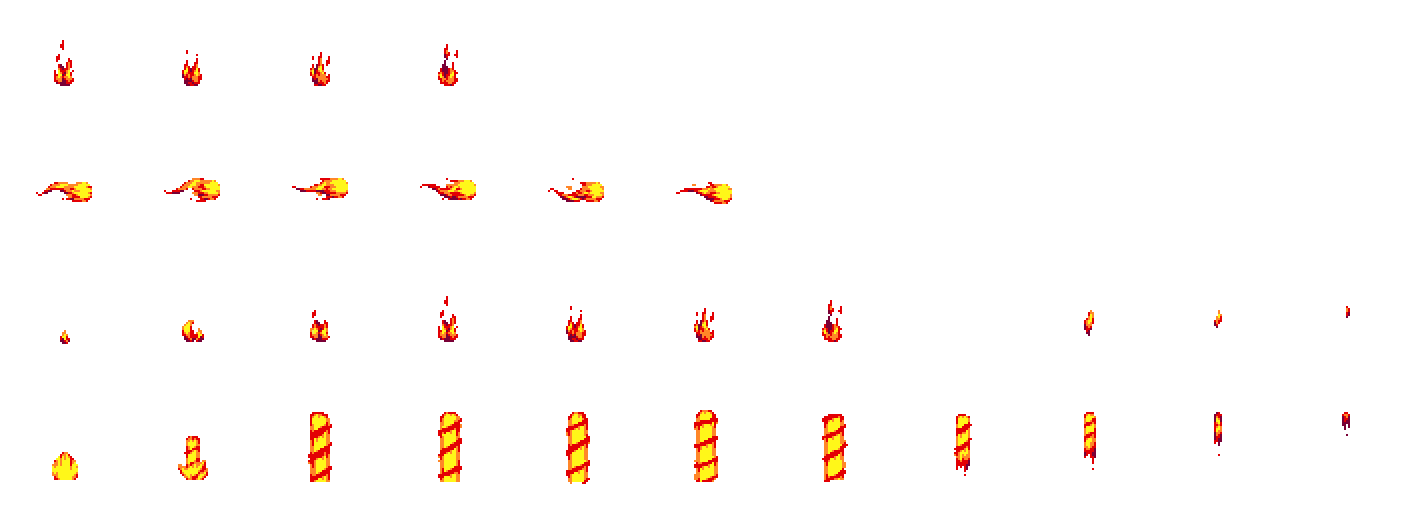
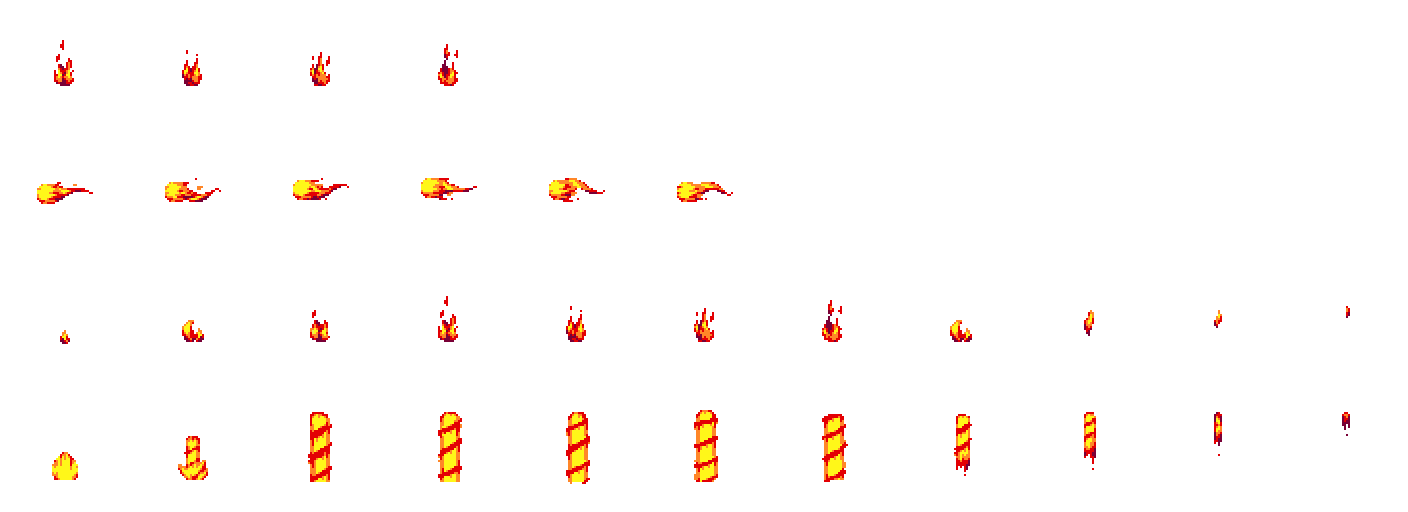
Animation additions

diff --git a/Hero of Novac/Hero_of_Novac/Player.cs b/Hero of Novac/Hero_of_Novac/Player.cs
@@ -251,6 +251,11 @@ namespace Hero_of_Novac
                             sourceRecFX.Y = 128 * 3;
                             break;
                         case "Fire Ball":
+                            combatFX = Content.Load<Texture2D>("FireAttacc");
+                            sourceRecBattle.X = 96 * 3;
+                            sourceRecBattle.Y = 96;
+                            sourceRecFX.X = -128;
+                            sourceRecFX.Y = 128;
                             break;
                         case "Incendiary Cloud":
                             combatFX = Content.Load<Texture2D>("explosions");
@@ -260,18 +265,53 @@ namespace Hero_of_Novac
                             sourceRecFX.Y = 128;
                             break;
                         case "Otto's Firestorm":
+                            combatFX = Content.Load<Texture2D>("FireAttacc");
+                            sourceRecBattle.X = 96 * 3;
+                            sourceRecBattle.Y = 96;
+                            sourceRecFX.X = -128;
+                            sourceRecFX.Y = 128 * 2;
                             break;
                         case "Thorn Whip":
+                            combatFX = Content.Load<Texture2D>("plantAttacc");
+                            sourceRecBattle.X = 96 * 3;
+                            sourceRecBattle.Y = 96;
+                            sourceRecFX.X = -128;
+                            sourceRecFX.Y = 0;
                             break;
                         case "Stone Throw":
+                            combatFX = Content.Load<Texture2D>("EarthAttacc");
+                            sourceRecBattle.X = 96 * 3;
+                            sourceRecBattle.Y = 96;
+                            sourceRecFX.X = -128;
+                            sourceRecFX.Y = 0;
                             break;
                         case "Earthquake":
+                            combatFX = Content.Load<Texture2D>("EarthAttacc");
+                            sourceRecBattle.X = 96 * 3;
+                            sourceRecBattle.Y = 96;
+                            sourceRecFX.X = -128;
+                            sourceRecFX.Y = 128;
                             break;
                         case "Otiluke's Wrath":
+                            combatFX = Content.Load<Texture2D>("plantAttacc");
+                            sourceRecBattle.X = 96 * 3;
+                            sourceRecBattle.Y = 96;
+                            sourceRecFX.X = -128;
+                            sourceRecFX.Y = 128;
                             break;
-                        case "Cone of Cold":
+                        case "Cone of Cold"://To be called, "Ice Spike"
+                            combatFX = Content.Load<Texture2D>("IceAttacc");
+                            sourceRecBattle.X = 96 * 3;
+                            sourceRecBattle.Y = 96;
+                            sourceRecFX.X = -128;
+                            sourceRecFX.Y = 128;
                             break;
                         case "Ice Storm":
+                            combatFX = Content.Load<Texture2D>("IceAttacc");
+                            sourceRecBattle.X = 96 * 3;
+                            sourceRecBattle.Y = 96;
+                            sourceRecFX.X = -128;
+                            sourceRecFX.Y = 128 * 3;
                             break;
                         case "Frost Ray":
                             break;
@@ -453,45 +493,45 @@ namespace Hero_of_Novac
             }
 
             //Attacc animation tests
-            if ((pad1.IsButtonDown(Buttons.X) || KB.IsKeyDown(Keys.F)) && !attackTest)
-            {
-                attackTest = true;
-                sourceRecBattle.X = 96 * 3;
-                sourceRecFX.X = 0;
-            }
+            //if ((pad1.IsButtonDown(Buttons.X) || KB.IsKeyDown(Keys.F)) && !attackTest)
+            //{
+            //    attackTest = true;
+            //    sourceRecBattle.X = 96 * 3;
+            //    sourceRecFX.X = 0;
+            //}
 
-            if (attackTest)
-            {
-                if (sourceRecBattle.X <= 96 * 5)
-                {
-                    if (timer % 8 == 0)
-                        sourceRecBattle.X += 96;
-                    if (timer % 4 == 0)
-                        sourceRecFX.X += 128;
-                }
-                if (sourceRecBattle.X >= 96 * 6)
-                {
-                    attackTest = false;
-                }
-            }
+            //if (attackTest)
+            //{
+            //    if (sourceRecBattle.X <= 96 * 5)
+            //    {
+            //        if (timer % 8 == 0)
+            //            sourceRecBattle.X += 96;
+            //        if (timer % 4 == 0)
+            //            sourceRecFX.X += 128;
+            //    }
+            //    if (sourceRecBattle.X >= 96 * 6)
+            //    {
+            //        attackTest = false;
+            //    }
+            //}
 
             //Use to test health bar stuff
-            if (pad1.IsButtonDown(Buttons.DPadDown))
-                healthBar.CurrentValue--;
-            else if (pad1.IsButtonDown(Buttons.DPadUp))
-                healthBar.CurrentValue++;
-            timer++;
-            //Testing death stuff
-            if (pad1.IsButtonDown(Buttons.LeftShoulder) || KB.IsKeyDown(Keys.K))
-            {
-                healthBar.CurrentValue = 0;
-                death();
-            }
-            if (pad1.IsButtonDown(Buttons.RightShoulder) || KB.IsKeyDown(Keys.L))
-            {
-                healthBar.CurrentValue = 100;
-                dead = false;
-            }
+            //if (pad1.IsButtonDown(Buttons.DPadDown))
+            //    healthBar.CurrentValue--;
+            //else if (pad1.IsButtonDown(Buttons.DPadUp))
+            //    healthBar.CurrentValue++;
+            //timer++;
+            ////Testing death stuff
+            //if (pad1.IsButtonDown(Buttons.LeftShoulder) || KB.IsKeyDown(Keys.K))
+            //{
+            //    healthBar.CurrentValue = 0;
+            //    death();
+            //}
+            //if (pad1.IsButtonDown(Buttons.RightShoulder) || KB.IsKeyDown(Keys.L))
+            //{
+            //    healthBar.CurrentValue = 100;
+            //    dead = false;
+            //}
             //New health bar
             healthBar.SetLocation((int)playerPos.X - 10, (int)playerPos.Y - 10);
             magicBar.SetLocation((int)playerPos.X - 10, (int)playerPos.Y - 20);

diff --git a/Hero of Novac/Hero_of_Novac/BattleMenu.cs b/Hero of Novac/Hero_of_Novac/BattleMenu.cs
@@ -718,7 +718,7 @@ namespace Hero_of_Novac
                         player.sourceRecBattle.Y = 96 * 2;
                         player.sourceRecBattle.X = 0;
                     }
-                    if (player.sourceRecFX.X <= 64 * 14)
+                    if (player.sourceRecFX.X <= 128 * 14)
                     {
                         if (timer % 8 == 0)
                             player.sourceRecFX.X += 128;
@@ -802,8 +802,27 @@ namespace Hero_of_Novac
                         doneAttacking = true;
                     }
                     break;
-                //case "Fire Ball":
-                //    break;
+                case "Fire Ball":
+                    if (player.sourceRecBattle.X <= 96 * 1)
+                    {
+                        if (timer % 8 == 0)
+                            player.sourceRecBattle.X += 96;
+                    }
+                    else
+                    {
+                        player.sourceRecBattle.Y = 96 * 2;
+                        player.sourceRecBattle.X = 0;
+                    }
+                    if (player.sourceRecFX.X <= 128 * 6)
+                    {
+                        if (timer % 8 == 0)
+                            player.sourceRecFX.X += 128;
+                    }
+                    else
+                    {
+                        doneAttacking = true;
+                    }
+                    break;
                 case "Incendiary Cloud":
                     if(player.sourceRecBattle.X <= 96 * 1)
                     {
@@ -825,10 +844,48 @@ namespace Hero_of_Novac
                         doneAttacking = true;
                     }
                     break;
-                //case "Otto's Firestorm":
-                //    break;
-                //case "Thorn Whip":
-                //    break;
+                case "Otto's Firestorm":
+                    if (player.sourceRecBattle.X <= 96 * 1)
+                    {
+                        if (timer % 8 == 0)
+                            player.sourceRecBattle.X += 96;
+                    }
+                    else
+                    {
+                        player.sourceRecBattle.Y = 96 * 2;
+                        player.sourceRecBattle.X = 0;
+                    }
+                    if (player.sourceRecFX.X <= 128 * 9)
+                    {
+                        if (timer % 8 == 0)
+                            player.sourceRecFX.X += 128;
+                    }
+                    else
+                    {
+                        doneAttacking = true;
+                    }
+                    break;
+                case "Thorn Whip":
+                    if (player.sourceRecBattle.X <= 96 * 1)
+                    {
+                        if (timer % 8 == 0)
+                            player.sourceRecBattle.X += 96;
+                    }
+                    else
+                    {
+                        player.sourceRecBattle.Y = 96 * 2;
+                        player.sourceRecBattle.X = 0;
+                    }
+                    if (player.sourceRecFX.X <= 128 * 13)
+                    {
+                        if (timer % 8 == 0)
+                            player.sourceRecFX.X += 128;
+                    }
+                    else
+                    {
+                        doneAttacking = true;
+                    }
+                    break;
                 //case "Stone Throw":
                 //    break;
                 //case "Earthquake":
@@ -852,7 +909,7 @@ namespace Hero_of_Novac
                 //case "Tasha's Laugh":
                 //    break;
                 default:
-                    if (timer % 200 == 0)
+                    if (timer % 300 == 0)
                     {
                         doneAttacking = true;
                     }
